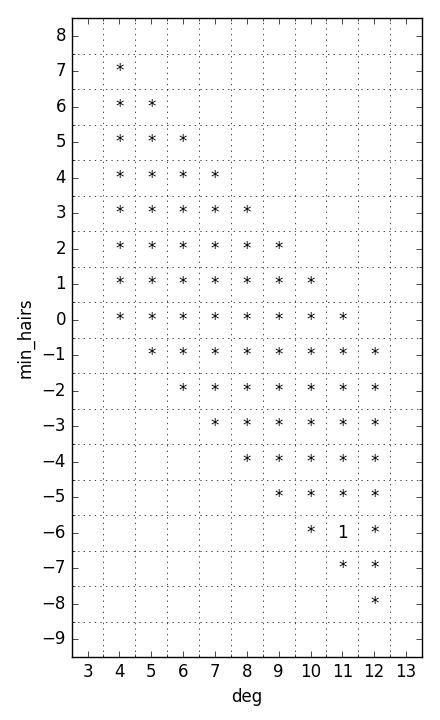
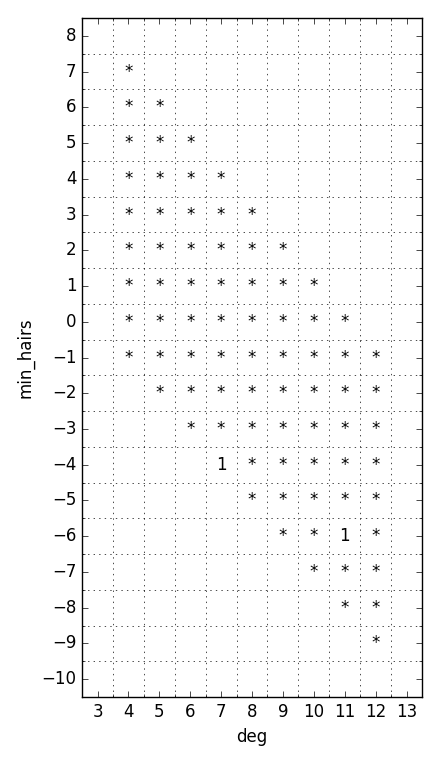
cohomology plot allow for permutations of the parameters

diff --git a/PlotCohomology.py b/PlotCohomology.py
@@ -2,27 +2,27 @@ import matplotlib.pyplot as plt
 import numpy as np
 import itertools
 import logging
-import os
-import time
-import tempfile
-import webbrowser
-from urllib import pathname2url
 import StoreLoad as SL
 import Parameters
 
 
-def plot_array(value_dict, ordered_param_range_dict, path):
+def plot_array(value_dict, ordered_param_range_dict, path, parameter_order):
     if len(ordered_param_range_dict) == 2:
-        plot_2d_array(value_dict, ordered_param_range_dict, path)
+        plot_2d_array(value_dict, ordered_param_range_dict, path, parameter_order=parameter_order)
     elif len(ordered_param_range_dict) == 3:
-        plot_3d_array(value_dict, ordered_param_range_dict, path)
+        plot_3d_array(value_dict, ordered_param_range_dict, path, parameter_order=parameter_order)
     else:
         raise ValueError('Need 2 or 3 parameters for plotting')
 
 
-def plot_2d_array(value_dict, ordered_param_range_dict, path):
-    (x_label, x_range) = ordered_param_range_dict.items()[0]
-    (y_label, y_range) = ordered_param_range_dict.items()[1]
+def plot_2d_array(value_dict, ordered_param_range_dict, path, parameter_order=(0, 1)):
+    if parameter_order in [(0, 1), (1, 0)]:
+        (x_idx, y_idx) = parameter_order
+    else:
+        raise ValueError('invalid parameter order')
+
+    (x_label, x_range) = ordered_param_range_dict.items()[x_idx]
+    (y_label, y_range) = ordered_param_range_dict.items()[y_idx]
     if len(list(x_range)) == 0 or len(list(y_range)) == 0:
         logging.warn('empty parameter range: nothing to plot')
         return
@@ -42,10 +42,12 @@ def plot_2d_array(value_dict, ordered_param_range_dict, path):
     plt.xlim(x_min, x_max)
     plt.ylim(y_min, y_max)
 
-    for (x, y) in itertools.product(x_range, y_range):
-        v = value_dict.get((x, y))
+    for coordinates in itertools.product(x_range, y_range):
+        v = value_dict.get(coordinates)
         if v is not None:
             v = Parameters.zero_symbol if v == 0 else v
+            new_coordinates = tuple(coordinates[i] for i in parameter_order)
+            (x, y) = new_coordinates
             ax.text(x, y, str(v), va='center', ha='center')
 
     x_ticks_grid = np.arange(x_min - 0.5, x_max + 1, 1)
@@ -66,10 +68,14 @@ def plot_2d_array(value_dict, ordered_param_range_dict, path):
     plt.savefig(path)
 
 
-def plot_3d_array(value_dict, ordered_param_range_dict, path, x_plots=Parameters.x_plots):
-    (x_label, x_range) = ordered_param_range_dict.items()[0]
-    (y_label, y_range) = ordered_param_range_dict.items()[1]
-    (z_label, z_range) = ordered_param_range_dict.items()[2]
+def plot_3d_array(value_dict, ordered_param_range_dict, path, parameter_order=(0, 1, 2), x_plots=Parameters.x_plots):
+    if parameter_order in {(0, 1, 2), (0, 2, 1), (1, 0, 2), (1, 2, 0), (2, 0, 1), (2, 1, 0)}:
+        (x_idx, y_idx, z_idx) = parameter_order
+    else:
+        raise ValueError('invalid parameter order')
+    (x_label, x_range) = ordered_param_range_dict.items()[x_idx]
+    (y_label, y_range) = ordered_param_range_dict.items()[y_idx]
+    (z_label, z_range) = ordered_param_range_dict.items()[z_idx]
     if len(list(x_range)) == 0 or len(list(y_range)) == 0 or len(list(z_range)) == 0:
         logging.warn('empty parameter range: nothing to plot')
         return
@@ -99,10 +105,12 @@ def plot_3d_array(value_dict, ordered_param_range_dict, path, x_plots=Parameters
         ax.set_xlim(x_min, x_max)
         ax.set_ylim(y_min, y_max)
 
-    for (x, y, z) in itertools.product(x_range, y_range, z_range):
-        v = value_dict.get((x, y, z))
+    for coordinates in itertools.product(x_range, y_range, z_range):
+        v = value_dict.get(coordinates)
         if v is not None:
             v = Parameters.zero_symbol if v == 0 else v
+            new_coordinates = tuple(coordinates[i] for i in parameter_order)
+            (x, y, z) = new_coordinates
             get_ax(axarr, x_plots, y_plots, z, z_min).text(x, y, str(v), va='center', ha='center')
 
     x_ticks_grid = np.arange(x_min - 0.5, x_max + 1, 1)

diff --git a/GraphOperator.py b/GraphOperator.py
@@ -610,6 +610,10 @@ class Differential(OperatorMatrixCollection):
     def get_cohomology_plot_path(self):
         pass
 
+    @abstractmethod
+    def get_cohomology_plot_parameter_order(self):
+        pass
+
     def get_ordered_cohomology_param_range_dict(self):
         return self.sum_vector_space.get_ordered_param_range_dict()
 
@@ -699,8 +703,8 @@ class Differential(OperatorMatrixCollection):
                     fail.append(p)
         (triv_l, succ_l, inc_l, fail_l) = (len(triv), len(succ), len(inc), len(fail))
         print("trivial success: %d, success: %d, inconclusive: %d, failed: %d pairs" % (triv_l, succ_l, inc_l, fail_l))
-        if inc_l:
-            logger.warn("Square zero test for %s: inconclusive: %d paris" % (str(self), inc_l))
+        logger.warn("trivial success: %d, success: %d, inconclusive: %d, failed: %d pairs" %
+                    (triv_l, succ_l, inc_l, fail_l))
         for (op1, op2) in fail:
             logger.error("Square zero test for %s: failed for the pair %s, %s" % (str(self), str(op1), str(op2)))
         return (triv_l, succ_l, inc_l, fail_l)
@@ -708,8 +712,9 @@ class Differential(OperatorMatrixCollection):
     def plot_cohomology_dim(self):
         dim_dict = self.get_cohomology_dim()
         plot_path = self.get_cohomology_plot_path()
+        param_order = self.get_cohomology_plot_parameter_order()
         ordered_param_range_dict = self.get_ordered_cohomology_param_range_dict()
-        PlotCohomology.plot_array(dim_dict, ordered_param_range_dict, plot_path)
+        PlotCohomology.plot_array(dim_dict, ordered_param_range_dict, plot_path, param_order)
 
 
 class BiDifferential(Differential):

diff --git a/HairyGraphComplex.py b/HairyGraphComplex.py
@@ -213,6 +213,9 @@ class ContractEdgesD(GO.Differential):
         s = "cohomology_dim_contract_D_%s_%s.png" % (graph_type, sub_type)
         return os.path.join(Parameters.plots_dir, graph_type, sub_type, s)
 
+    def get_cohomology_plot_parameter_order(self):
+        return (0, 1, 2)
+
 
 class EdgeToOneHairGO(GO.GraphOperator):
     def __init__(self, domain, target):
@@ -281,8 +284,8 @@ class EdgeToOneHairGO(GO.GraphOperator):
                 sgn1 = SH.edge_perm_sign(G1)
                 sgn2 = SH.edge_perm_sign(G2)
             else:
-                sgn1 = 1
-                sgn2 = -1
+                sgn1 = -1 if (u % 2) else 1
+                sgn2 = -1 * sgn1
             image.append((G1, sgn1))
             image.append((G2, sgn2))
         return image
@@ -299,6 +302,9 @@ class EdgeToOneHairD(GO.Differential):
         sub_type = self.sum_vector_space.get_vs_list()[0].sub_type
         s = "cohomology_dim_edge_to_one_hair_D_%s_%s.png" % (graph_type, sub_type)
         return os.path.join(Parameters.plots_dir, graph_type, sub_type, s)
+
+    def get_cohomology_plot_parameter_order(self):
+        return (1, 2, 0)
 
 
 # ------- Graph Complex --------

diff --git a/GraphComplex.py b/GraphComplex.py
@@ -127,8 +127,8 @@ class GraphComplex(object):
 
         (triv_l, succ_l, inc_l, fail_l) = (len(triv), len(succ), len(inc), len(fail))
         print("trivial success: %d, success: %d, inconclusive: %d, failed: %d quadruples" % (triv_l, succ_l, inc_l, fail_l))
-        if inc_l:
-            logger.warn("Commutativity test for %s: inconclusive: %d quadruples" % (str(self), inc_l))
+        logger.warn("trivial success: %d, success: %d, inconclusive: %d, failed: %d quadruples" %
+                    (triv_l, succ_l, inc_l, fail_l))
         for (op1a, op1b, op2a, op2b) in fail:
             logger.error("Commutativity test for %s: failed for the quadruples %s, %s, %s, %s" %
                          (str(self), str(op1a), str(op1b), str(op2a), str(op2b)))

diff --git a/Test.py b/Test.py
@@ -10,7 +10,7 @@ if __name__ == "__main__":
     even_e = False
     even_h = False
     deg_range = range(3, 14)
-    h_min_range = range(-9, -1)
+    h_min_range = range(-10, -1)
 
     gc = HGBC.HairyBiGC(deg_range, h_min_range, even_e, even_h)
 
